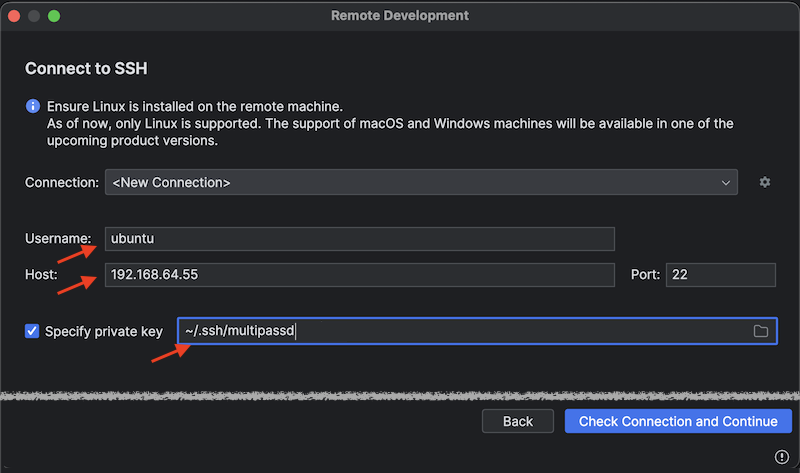
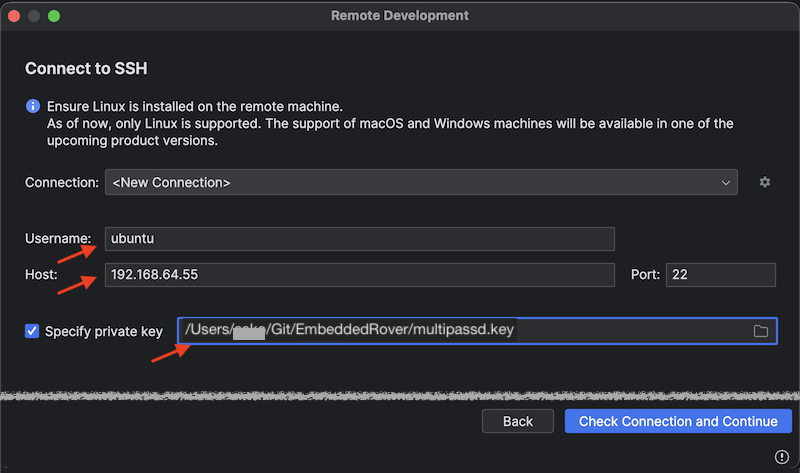
interim; Remote Development is up

Changed region(s): [[0.2188, 0.6512, 0.6562, 0.74]]

diff --git a/README.md b/README.md
@@ -3,7 +3,7 @@
 Platform for starting embedded Rust development, with:
 
 - <font color=green>&check;</font> sandboxing
-- <font color=red>TBD</font> IDE setup (optional)
+- <font color=green>&check;</font> IDE setup (optional)
 - <font color=red>TBD</font> flashing to an embedded board
 
 ## Requirements
@@ -81,23 +81,23 @@ The private key is stored in:
 <!-- TBD. Windows + WSL
 -->
 
-The key is appropriately accessible for super-user only. We copy it "somewhere" and change the access rights so that the Rust Rover desktop application can read it.
+The key is appropriately accessible for super-user only. We copy it somewhere where the Rust Rover desktop application can access it (e.g. the project folder itself) and change the access rights suitably.
+
+>Note: Cannot place it in `~/.ssh`. The desktop app cannot access contents of that folder (can it?).
+
+<p />
 
 >Note: There are other ways of arranging the ssh connection between the parties. See the links under References if you are not at ease with this.
 >
 >Exposing the private key to user side is not a grade security issue. It's only used to access a child environment, and that environment can be accessed (by `multipass shell`) from our command line, anyways.
 
 ```
-$ pushd ~/.ssh
-
-$ sudo cp "/var/root/Library/Application Support/multipassd/ssh-keys/id_rsa" multipassd
-$ sudo chown multipassd {your-username}
-$ sudo chmod a+r multipassd
-
-$ popd
+$ sudo cp "/var/root/Library/Application Support/multipassd/ssh-keys/id_rsa" multipassd.key
+$ sudo chown multipassd.key {your-username}
+$ sudo chmod a+r multipassd.key
 ```
 
->Note the quotes needed because of a space in the path.
+>Note the quotes needed because there's a space in the path.
 
 **Remote Development setup**
 
@@ -127,13 +127,13 @@ $ popd
    Enter the `Project directory` as in the image - it's the path, where the project files are mapped, within Multipass.
 
    Press `Download IDE and Connect`.
-   
----   
->‼ The steps above are not successful. Something "internal" goes wrong, and actual Remote Development cannot be started.
->
->Rust Rover 2023.3 EAP (233.11799.306)
 
----
+
+   The outcome of all this should be that you see the project opened, as a remote development session:
+   
+   ![](.images/opened-remotely.png)
+   
+   
 
 <!-- 
 tbd. Finish actual steps to:

diff --git a/DEVS/Using Rust Rover.md b/DEVS/Using Rust Rover.md
@@ -1,0 +1,12 @@
+# Using Rust Rover (hints)
+
+## Remote client health metrics
+
+![](.images/remote-stats.png)
+
+Drop down the IP (`192.168.64.55` in the screenshot), and you'll see useful info about how the remote client is doing.
+
+If something's hitting the ceiling (memory is close!), add more in the `Makefile` and `make purge prep` to restart the client.
+
+>NOTE!!! The Rust Rover remote client installations need to be redone, if you `purge` the existing instance. There may be ways to dynamically change the memory of a Multipass instance. [link](https://github.com/canonical/multipass/issues/1265)
+
